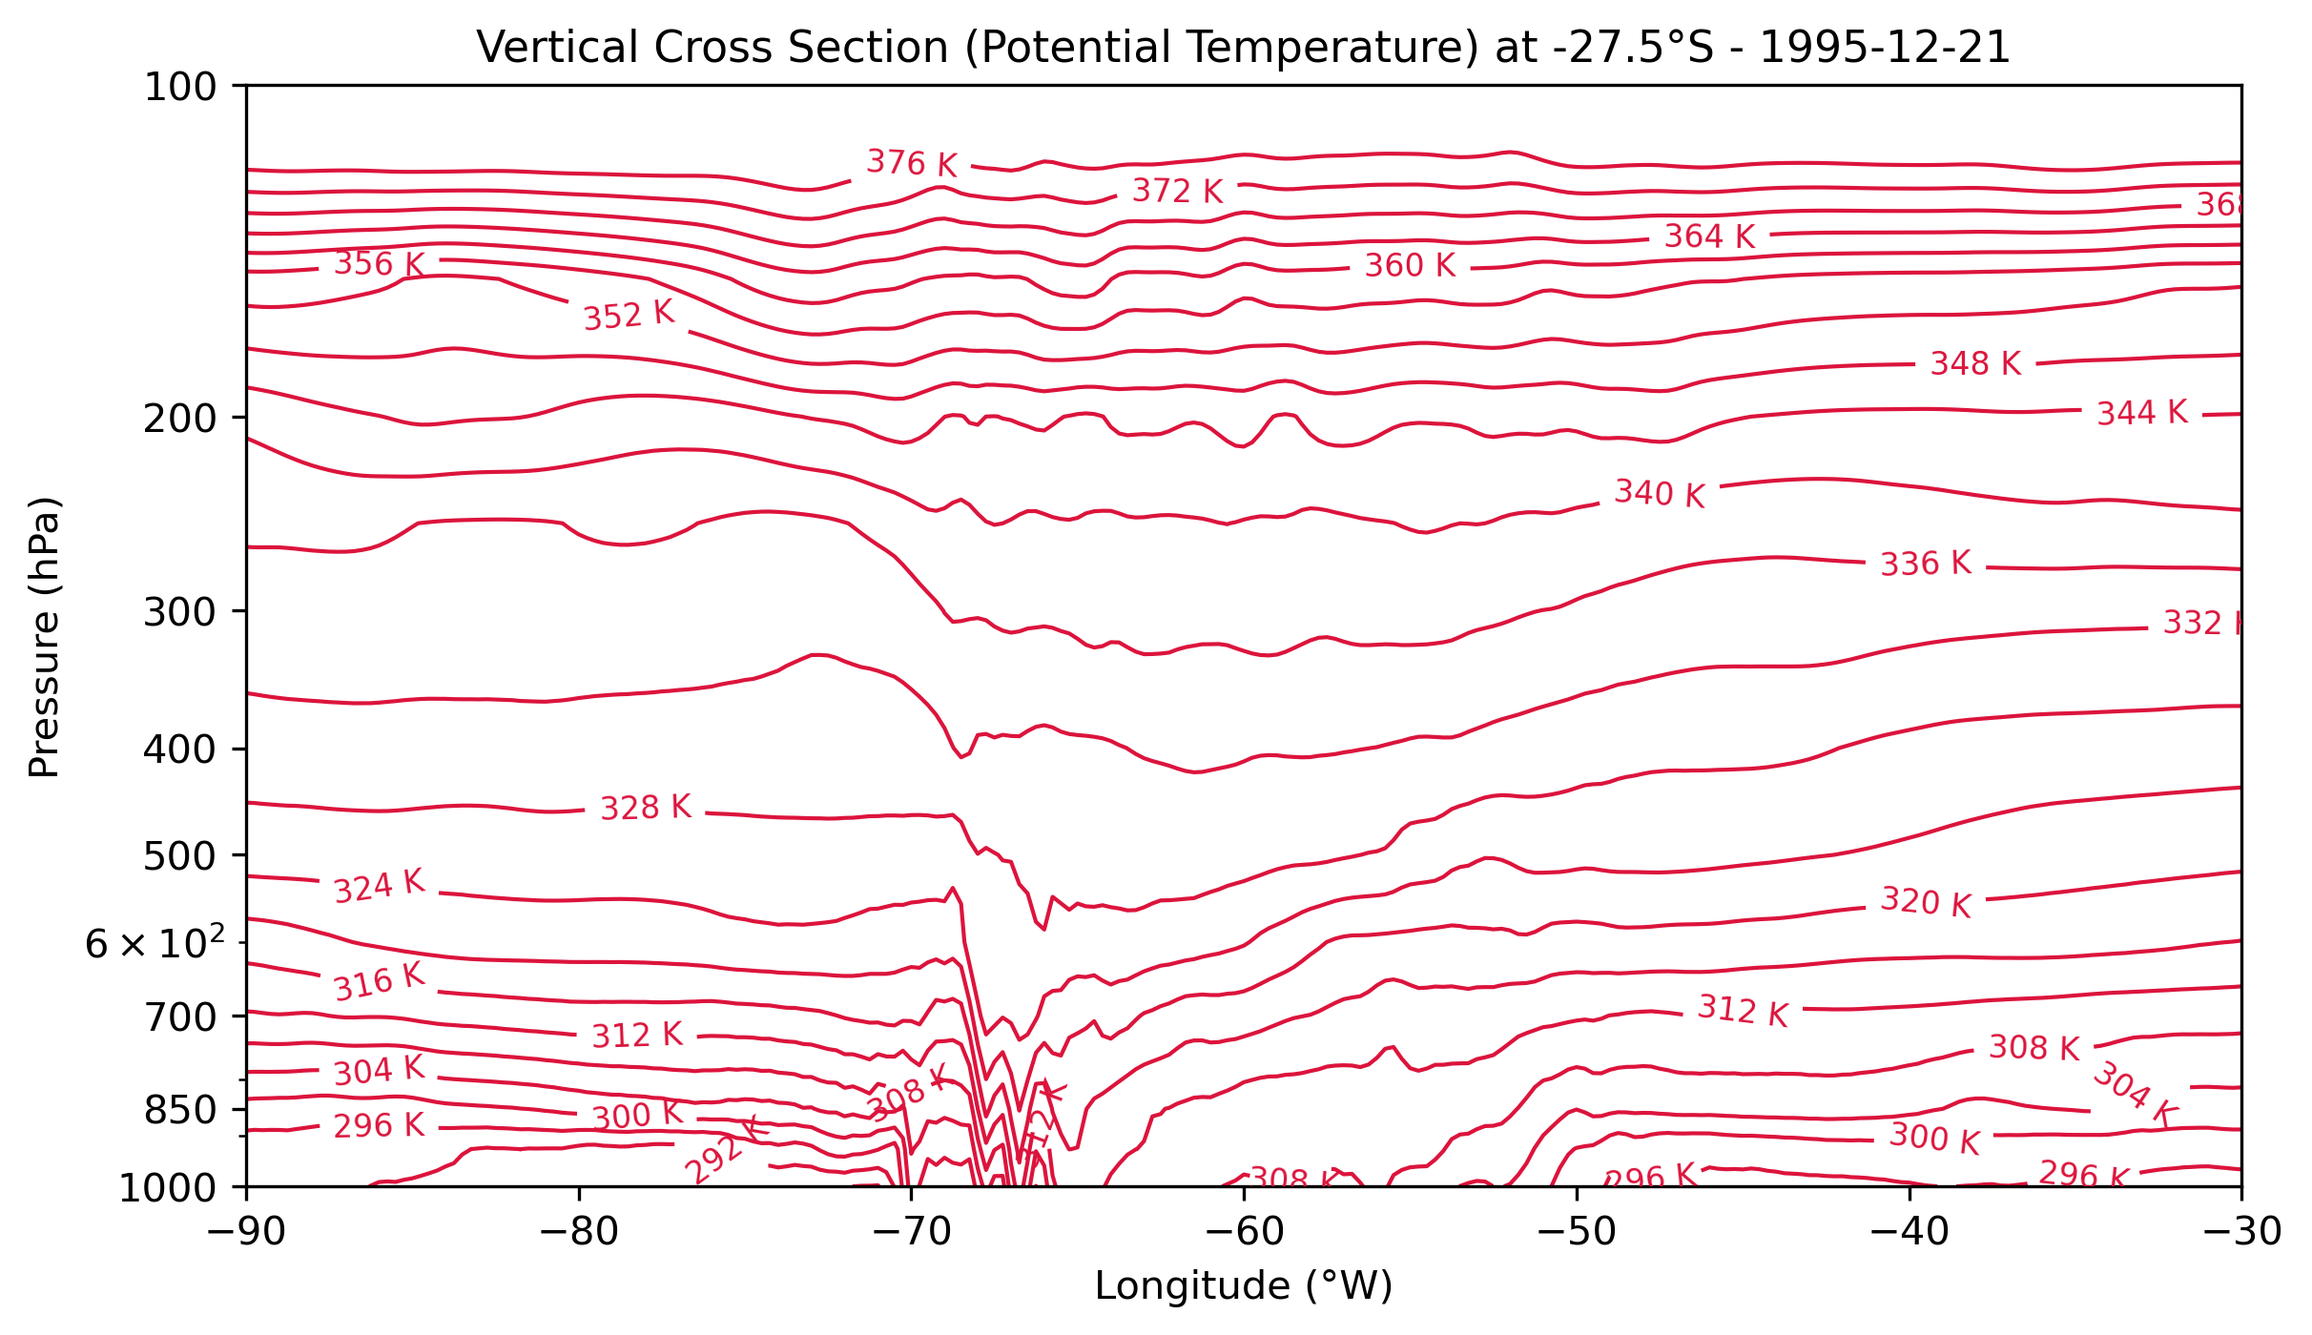
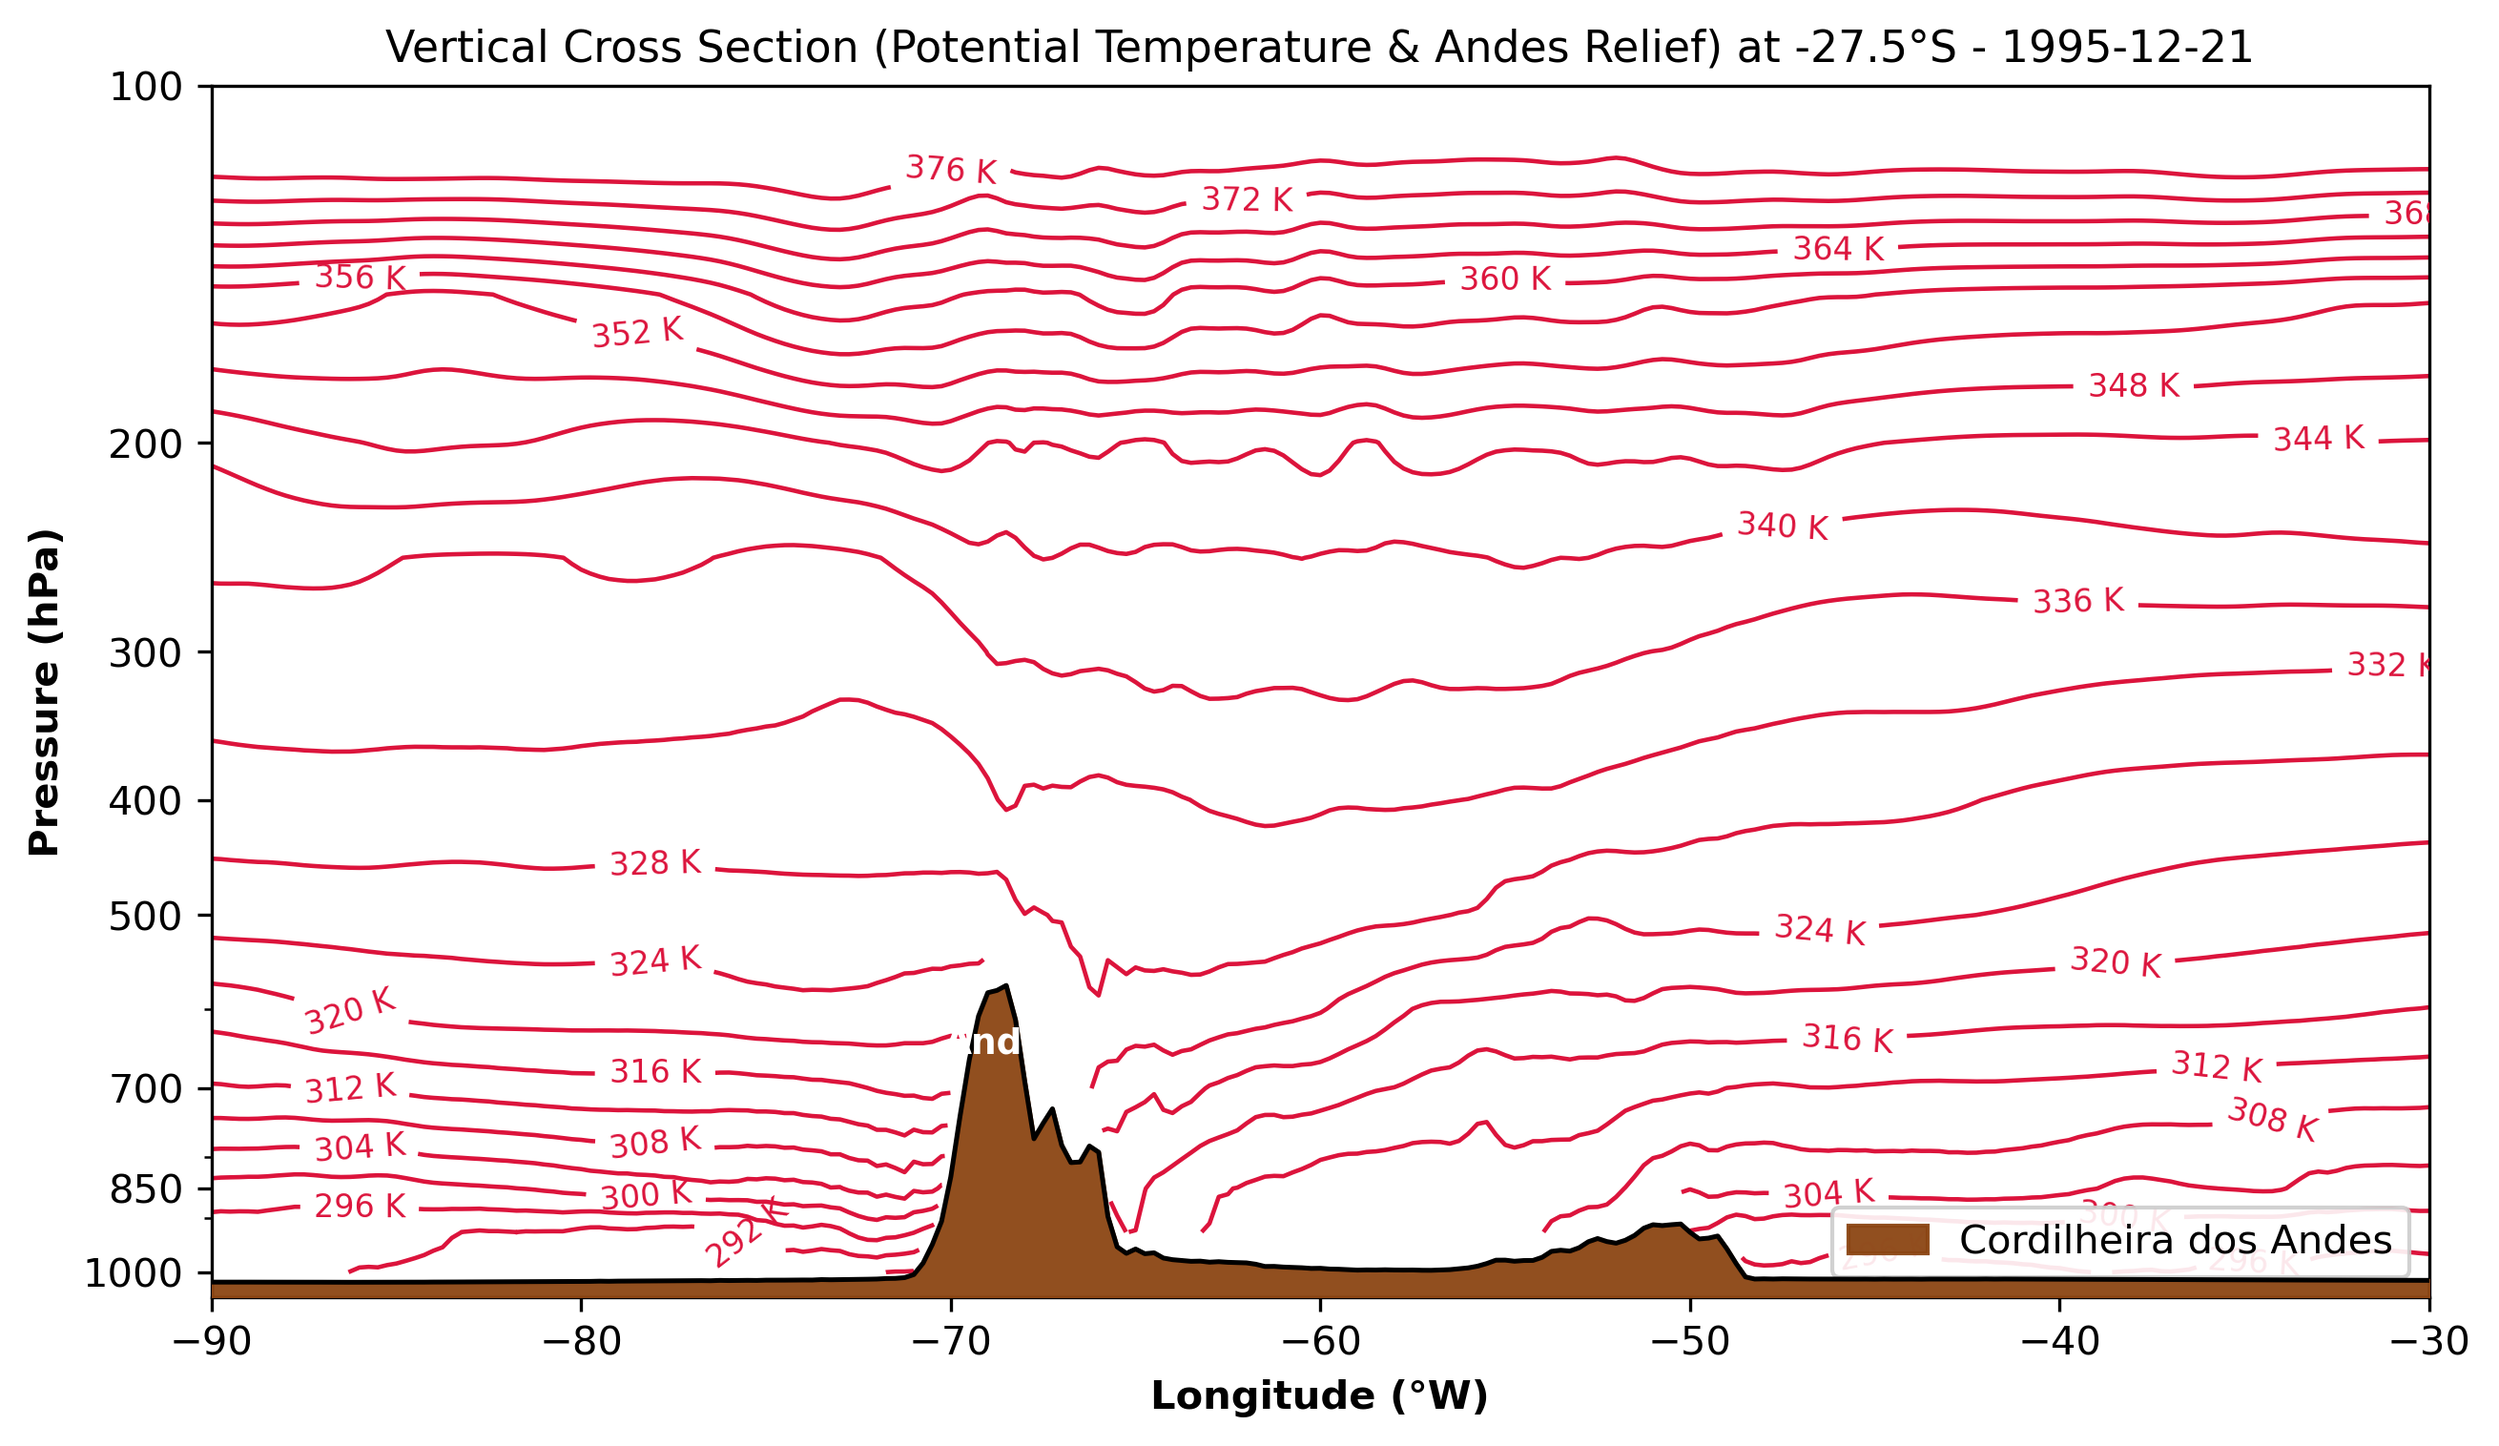
Add Andes relief to vertical profiles and clean planar figures

diff --git a/plot_all_figures_era5.py b/plot_all_figures_era5.py
@@ -5,10 +5,15 @@ import cartopy.feature as cfeature
 import numpy as np
 
 def load_era5_data():
-    """Carrega os dados do ERA5 (pressupõe que o download_era5_cds.py já foi executado)"""
+    """Carrega os dados do ERA5 e orografia"""
     try:
         ds_pl = xr.open_dataset('era5_pressure_levels_vcan_1995.nc')
         ds_sfc = xr.open_dataset('era5_surface_vcan_1995.nc')
+        
+        try:
+            ds_orog = xr.open_dataset('era5_surface_orography.nc')
+        except FileNotFoundError:
+            ds_orog = None
         
         # Padroniza coordenadas para time e level
         rename_pl = {}
@@ -22,13 +27,16 @@ def load_era5_data():
         if 'valid_time' in ds_sfc.coords:
             ds_sfc = ds_sfc.rename({'valid_time': 'time'})
             
-        return ds_pl, ds_sfc
+        return ds_pl, ds_sfc, ds_orog
     except FileNotFoundError:
         print("Arquivos ERA5 não encontrados. Execute download_era5_cds.py primeiro.")
-        return None, None
+        return None, None, None
 
 def plot_figure_6_slp_4panel(ds_sfc):
-    """Recria a Figura 6 com 4 painéis (21/12, 22/12, 25/12 e 29/12 às 00 UTC)"""
+    """
+    Recria a Figura 6 com 4 painéis (21/12, 22/12, 25/12 e 29/12 às 00 UTC).
+    Figura estritamente plana: apenas SLP, linhas de costa e fronteiras (sem relevo).
+    """
     dates = ['1995-12-21T00:00', '1995-12-22T00:00', '1995-12-25T00:00', '1995-12-29T00:00']
     titles = ['(a) 21/12/1995 00Z', '(b) 22/12/1995 00Z', '(c) 25/12/1995 00Z', '(d) 29/12/1995 00Z']
     
@@ -51,10 +59,13 @@ def plot_figure_6_slp_4panel(ds_sfc):
     plt.suptitle('Figure 6: Mean Sea Level Pressure (hPa) - ERA5 Reanalysis', fontsize=12, y=0.94)
     plt.savefig('Figure_6_SLP_ERA5.png', dpi=300, bbox_inches='tight')
     plt.close()
-    print("Figura 6 (4 painéis) gerada: Figure_6_SLP_ERA5.png")
+    print("Figura 6 (4 painéis, plano limpo) gerada: Figure_6_SLP_ERA5.png")
 
 def plot_figure_3_ipv_400hPa(ds_pl, date='1995-12-21T00:00'):
-    """Recria a Figura 3 (VPI / Vento e Geopotencial em 400 hPa)"""
+    """
+    Recria a Figura 3 (Vento e Geopotencial em 400 hPa).
+    Figura plana sem relevo sobreposto.
+    """
     fig = plt.figure(figsize=(9, 7))
     ax = plt.axes(projection=ccrs.PlateCarree())
     ax.add_feature(cfeature.COASTLINE, linewidth=0.8)
@@ -85,65 +96,89 @@ def plot_figure_3_ipv_400hPa(ds_pl, date='1995-12-21T00:00'):
     plt.close()
     print(f"Figura 3 gerada para {date[:10]}: Figure_3_400hPa_{date[:10]}.png")
 
-def plot_cross_section(ds_pl, lat_slice=-27.5, date='1995-12-22T00:00'):
-    """Recria cortes verticais de temperatura potencial (isentrópicas)"""
-    fig, ax = plt.subplots(figsize=(9, 5))
+def plot_cross_section(ds_pl, ds_orog=None, lat_slice=-27.5, date='1995-12-22T00:00'):
+    """
+    Recria cortes verticais de temperatura potencial (isentrópicas),
+    com a Cordilheira dos Andes indicada em marrom e máscara subterrânea.
+    """
+    fig, ax = plt.subplots(figsize=(10, 5.5))
     
     data = ds_pl.sel(time=date, latitude=lat_slice, method='nearest')
     lon = data.longitude.values
     levels = data.level.values
-    t = data['t'].values
+    t = data['t'].values.copy()
     
     # Temperatura potencial (theta)
     theta = t * (1000.0 / levels[:, None]) ** 0.286
     
-    c = ax.contour(lon, levels, theta, levels=np.arange(280, 380, 4), colors='crimson', linewidths=1.0)
+    # Se houver dados de relevo/pressão de superfície, mascara abaixo do solo
+    sp_hpa = None
+    if ds_orog is not None:
+        orog_data = ds_orog['sp'].sel(latitude=lat_slice, method='nearest')
+        if 'valid_time' in orog_data.dims and len(orog_data.dims) > 1:
+            orog_data = orog_data.isel(valid_time=0)
+        sp_hpa = (orog_data / 100.0).values
+        
+        # Interpola para a mesma grade de longitude se necessário
+        if len(sp_hpa) != len(lon):
+            sp_hpa = np.interp(lon, ds_orog.longitude.values, sp_hpa)
+            
+        # Mascara a atmosfera subterrânea (onde p > sp)
+        for i, p in enumerate(levels):
+            theta[i, p > sp_hpa] = np.nan
+    
+    # Contornos de temperatura potencial (isentrópicas)
+    c = ax.contour(lon, levels, theta, levels=np.arange(280, 380, 4), colors='crimson', linewidths=1.1)
     ax.clabel(c, inline=True, fontsize=8, fmt='%d K')
+    
+    # Desenha o perfil do relevo (Andes) em marrom
+    if sp_hpa is not None:
+        ax.fill_between(lon, sp_hpa, 1050, color='saddlebrown', alpha=0.95, zorder=5, label='Cordilheira dos Andes')
+        ax.plot(lon, sp_hpa, color='black', linewidth=1.2, zorder=6)
+        
+        # Identificação dos Andes no pico do relevo
+        andes_idx = np.argmin(sp_hpa)
+        ax.text(lon[andes_idx], sp_hpa[andes_idx] + 80, 'Andes', color='white',
+                fontweight='bold', fontsize=9, ha='center', zorder=7)
     
     ax.invert_yaxis()
     ax.set_yscale('log')
+    ax.set_ylim(1050, 100)
     ax.set_yticks([1000, 850, 700, 500, 400, 300, 200, 100])
     ax.get_yaxis().set_major_formatter(plt.ScalarFormatter())
-    ax.set_ylabel('Pressure (hPa)')
-    ax.set_xlabel('Longitude (°W)')
-    ax.set_title(f'Vertical Cross Section (Potential Temperature) at {lat_slice}°S - {date[:10]}', fontsize=11)
+    ax.set_ylabel('Pressure (hPa)', fontweight='bold')
+    ax.set_xlabel('Longitude (°W)', fontweight='bold')
+    ax.set_title(f'Vertical Cross Section (Potential Temperature & Andes Relief) at {lat_slice}°S - {date[:10]}', fontsize=11)
+    ax.legend(loc='lower right', framealpha=0.9)
     
     out_name = f'Cross_Section_{date[:10]}_{lat_slice}S.png'
     plt.savefig(out_name, dpi=300, bbox_inches='tight')
     plt.close()
-    print(f"Corte vertical gerado: {out_name}")
+    print(f"Corte vertical com relevo gerado: {out_name}")
 
 def plot_figure_10_barotropic(ds_pl):
     """
-    Recria a Figura 10:
+    Recria a Figura 10 (plano limpo):
     (a) Parâmetro Qy = beta - d^2(u)/dy^2
-    (b) Vento zonal médio u entre 300 e 100 hPa para o período de 22 a 28/12/1995.
+    (b) Vento zonal médio u entre 300 e 100 hPa para 22-28/12/1995.
     """
-    # Média entre 300 e 100 hPa e período 22 a 28/12/1995
     u_subset = ds_pl['u'].sel(time=slice('1995-12-22', '1995-12-28'), level=slice(100, 300))
     u_mean = u_subset.mean(dim=['time', 'level'])
     
     lats = u_mean.latitude.values
     lons = u_mean.longitude.values
     
-    # Constantes
     omega = 7.292115e-5
     a = 6.371e6
     phi = np.radians(lats)
     
-    # beta = 2 * omega * cos(phi) / a
-    beta = (2.0 * omega * np.cos(phi)) / a # 1D array
-    
-    # Derivada segunda de u em relação a y: d^2(u)/dy^2
-    # dy em metros = a * dphi
+    beta = (2.0 * omega * np.cos(phi)) / a
     dphi = np.radians(np.abs(np.gradient(lats)))
-    dy = a * dphi # 1D array
+    dy = a * dphi
     
-    # Gradiente em y (latitude)
     du_dy = np.gradient(u_mean.values, axis=0) / dy[:, None]
     d2u_dy2 = np.gradient(du_dy, axis=0) / dy[:, None]
     
-    # Qy = beta - d2u/dy2
     Qy = beta[:, None] - d2u_dy2
     
     fig, (ax1, ax2) = plt.subplots(1, 2, figsize=(14, 6), subplot_kw={'projection': ccrs.PlateCarree()})
@@ -170,19 +205,23 @@ def plot_figure_10_barotropic(ds_pl):
     plt.suptitle('Figure 10: Barotropic Instability Analysis (22-28 Dec 1995)', fontsize=12, y=0.96)
     plt.savefig('Figure_10_Barotropic_ERA5.png', dpi=300, bbox_inches='tight')
     plt.close()
-    print("Figura 10 gerada: Figure_10_Barotropic_ERA5.png")
+    print("Figura 10 (plano limpo) gerada: Figure_10_Barotropic_ERA5.png")
 
 def main():
-    ds_pl, ds_sfc = load_era5_data()
+    ds_pl, ds_sfc, ds_orog = load_era5_data()
     if ds_pl is not None and ds_sfc is not None:
-        print("\n--- Gerando Figuras com dados ERA5 ---")
+        print("\n--- Gerando Figuras com Relevo Apenas nos Perfis Verticais ---")
         plot_figure_6_slp_4panel(ds_sfc)
         plot_figure_3_ipv_400hPa(ds_pl, date='1995-12-21T00:00')
         plot_figure_3_ipv_400hPa(ds_pl, date='1995-12-22T00:00')
-        plot_cross_section(ds_pl, lat_slice=-27.5, date='1995-12-21T00:00')
-        plot_cross_section(ds_pl, lat_slice=-27.5, date='1995-12-22T00:00')
+        
+        # Cortes verticais com relevo dos Andes em marrom
+        plot_cross_section(ds_pl, ds_orog=ds_orog, lat_slice=-27.5, date='1995-12-21T00:00')
+        plot_cross_section(ds_pl, ds_orog=ds_orog, lat_slice=-27.5, date='1995-12-22T00:00')
+        plot_cross_section(ds_pl, ds_orog=ds_orog, lat_slice=-35.0, date='1995-12-20T00:00')
+        
         plot_figure_10_barotropic(ds_pl)
-        print("\nTodas as figuras ERA5 foram geradas com sucesso!")
+        print("\nProcessamento concluído com sucesso!")
 
 if __name__ == '__main__':
     main()
